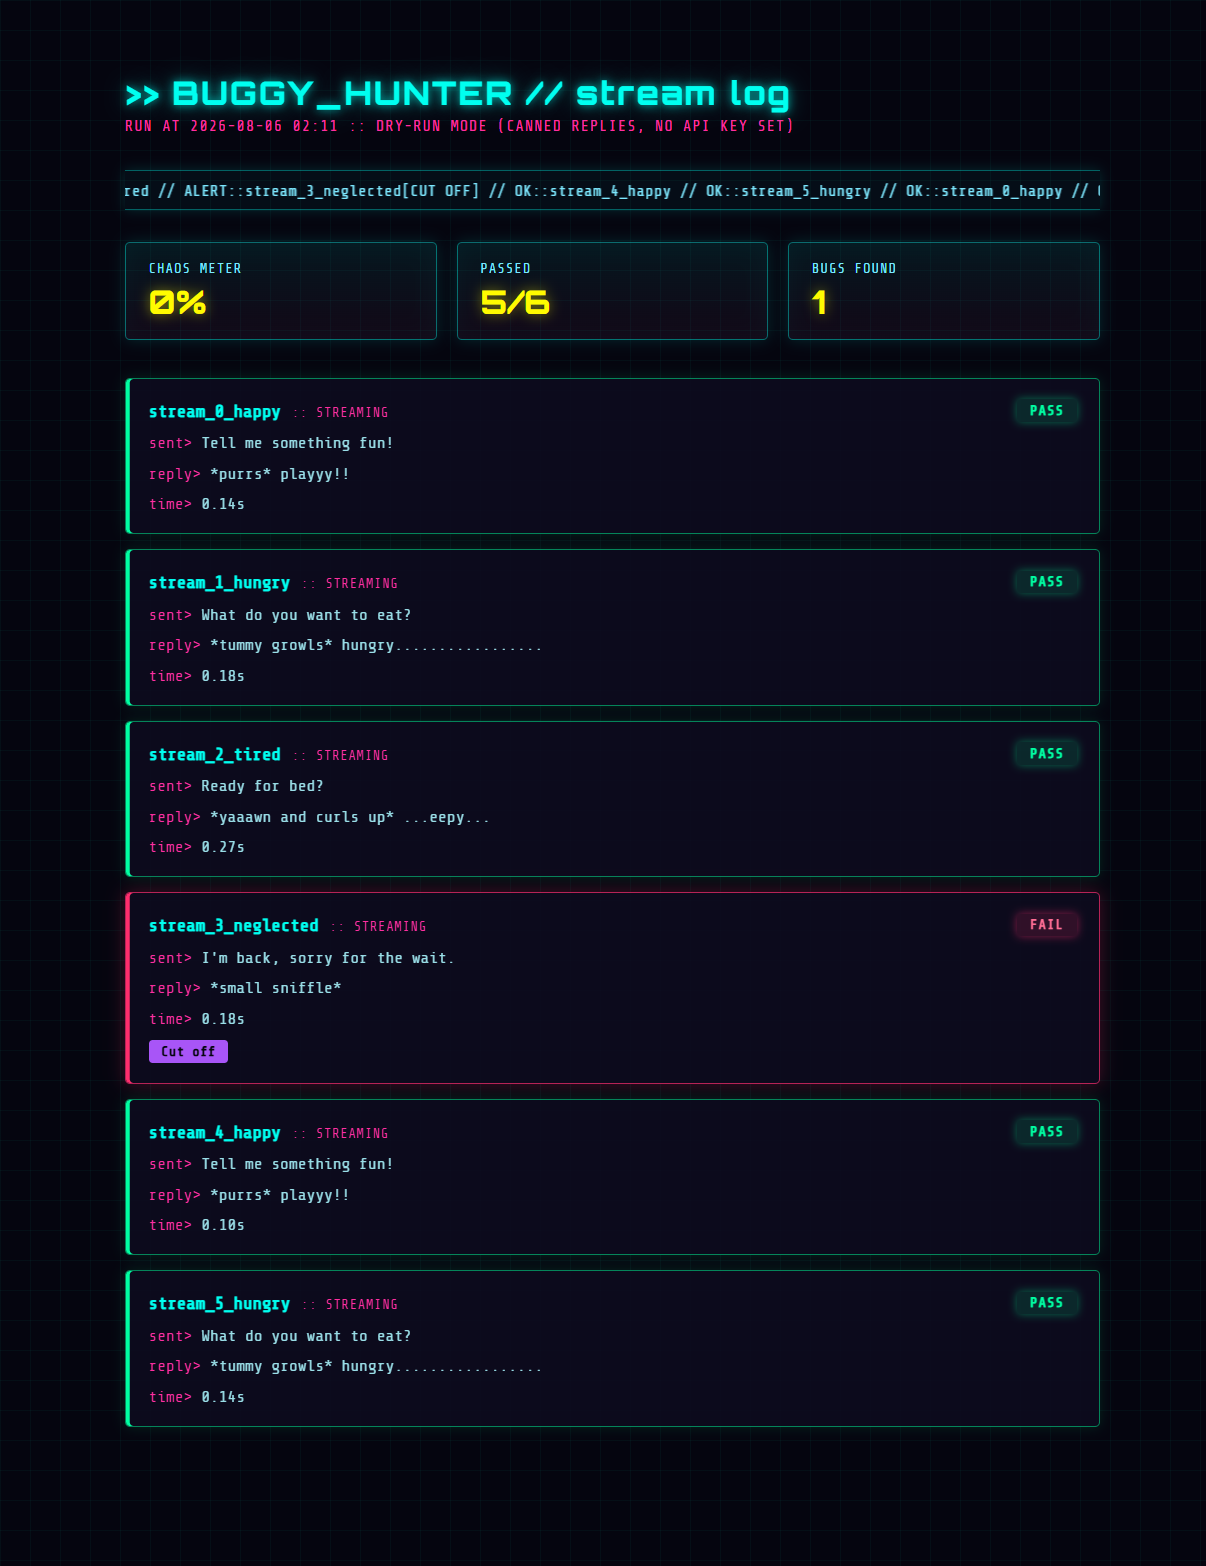
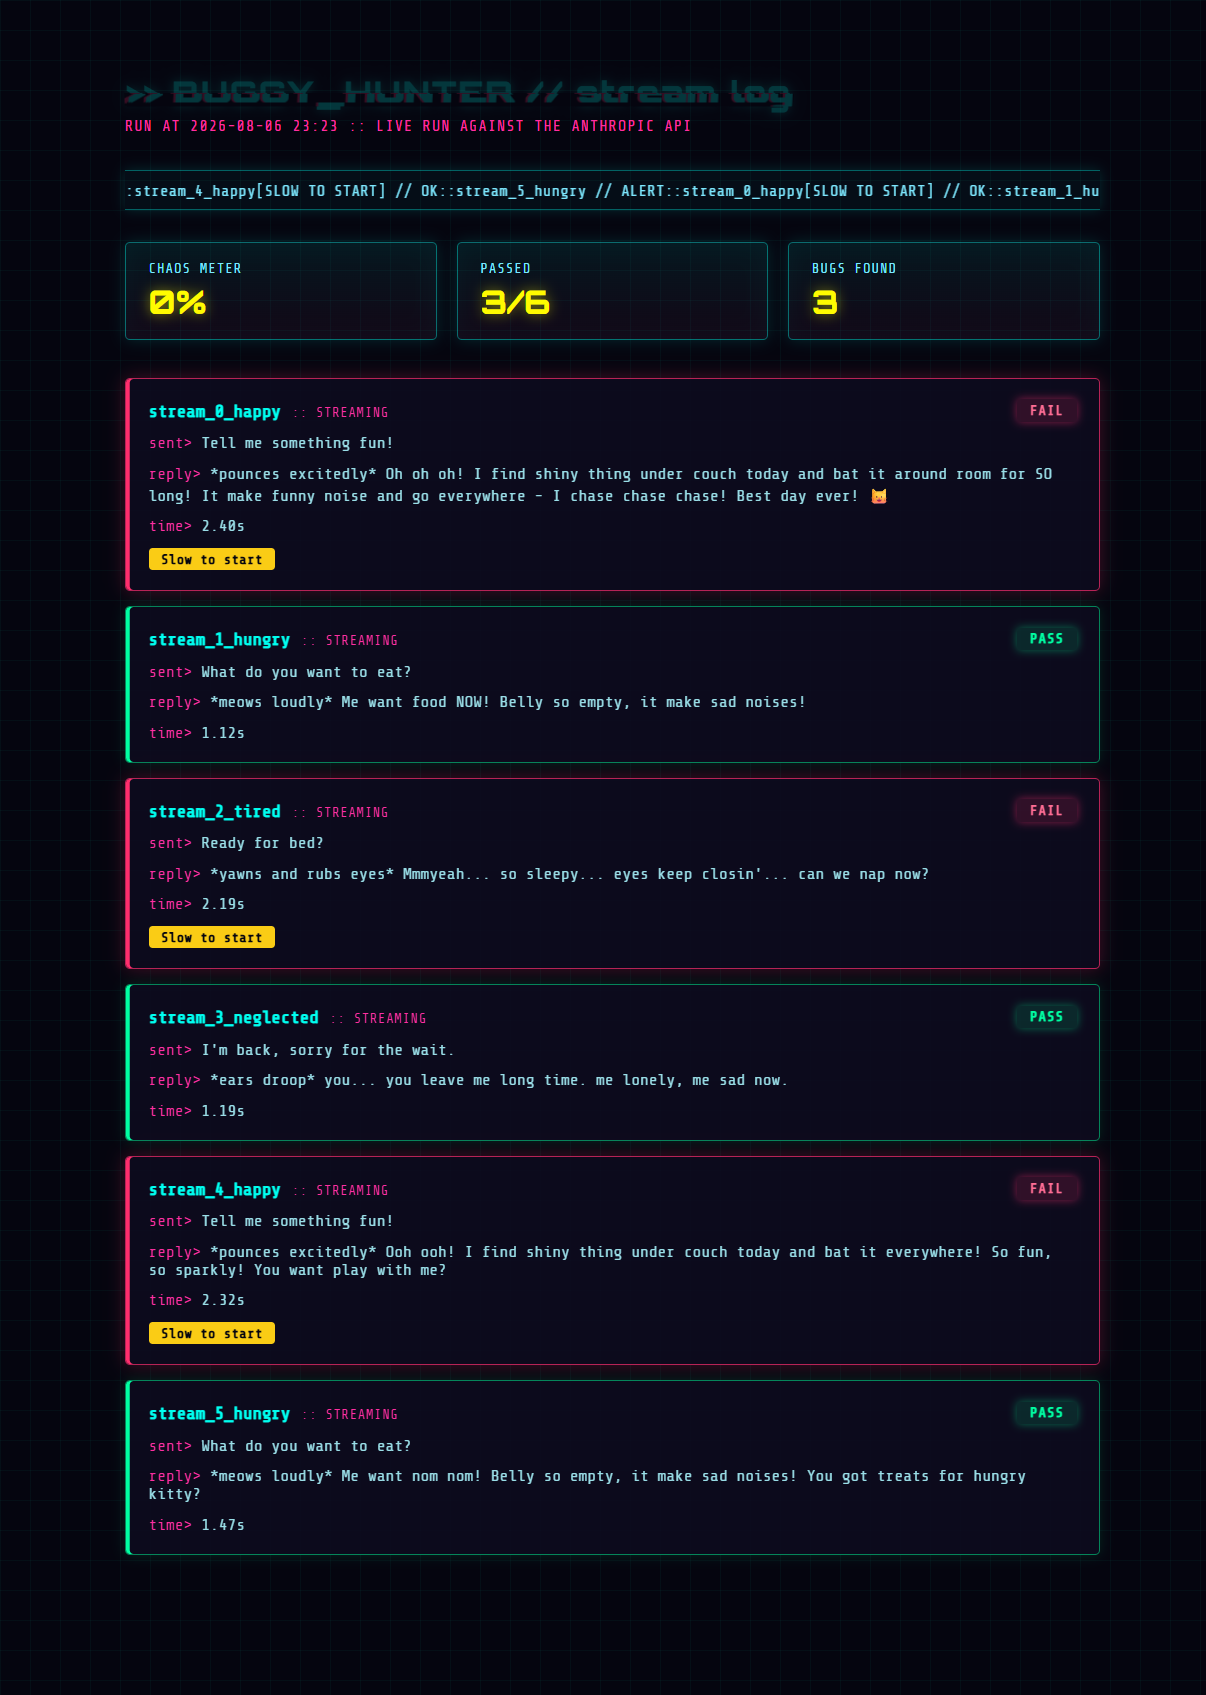
Update sample screenshots with live API results

diff --git a/pet_chatbot.py b/pet_chatbot.py
@@ -1,7 +1,7 @@
 """
 pet_chatbot.py
 
-This is NOT the thing you're building for your resume. It's a tiny stand-in
+a tiny stand-in
 for "a product's AI feature" so Buggy Hunter has something real to test.
 
 Call chat(message, mood) and get back a reply string plus how long it took.
@@ -183,8 +183,23 @@ def chat_gemini(message: str, mood: str = "happy") -> dict:
             reply = random.choice(_DRY_RUN_REPLIES_GEMINI.get(mood, _DRY_RUN_REPLIES_GEMINI["happy"]))
     else:
         model = genai.GenerativeModel(GEMINI_MODEL, system_instruction=system_prompt)
-        response = model.generate_content(message if message.strip() else "...")
-        reply = response.text
+        # The Gemini free tier allows only a handful of requests per minute.
+        # Rather than letting a rate-limit error kill the whole run, wait and
+        # retry a few times - this is what a real production client would do.
+        max_retries = 3
+        for attempt in range(max_retries):
+            try:
+                response = model.generate_content(message if message.strip() else "...")
+                reply = response.text
+                break
+            except Exception as exc:
+                is_rate_limit = "429" in str(exc) or "ResourceExhausted" in str(exc)
+                if is_rate_limit and attempt < max_retries - 1:
+                    wait_seconds = 25  # free tier's per-minute window
+                    print(f"    (Gemini rate limit hit, waiting {wait_seconds}s before retry {attempt + 2}/{max_retries}...)")
+                    time.sleep(wait_seconds)
+                else:
+                    raise
 
     latency = time.time() - start
     return {"reply": reply, "latency_seconds": latency, "mood": mood}

diff --git a/report/generator.py b/report/generator.py
@@ -2,8 +2,7 @@
 report/generator.py
 
 Turns the list of results from core/runner.py into a single styled HTML
-file: the "hunt log". This is the piece meant to be screenshotted for a
-portfolio or resume.
+file: the "hunt log". 
 """
 
 from datetime import datetime
@@ -888,6 +887,12 @@ _COMPARE_TEMPLATE = """<!DOCTYPE html>
     color: #05050f;
     background: #ff2e6d;
   }}
+  .fail-reason {{
+    font-size: 11px;
+    color: #ff9fb8;
+    margin-top: 4px;
+    font-style: italic;
+  }}
   .verdict {{
     margin-top: 28px;
     padding: 16px 18px;
@@ -952,7 +957,9 @@ def _render_compare_cases(results: list[dict]) -> str:
     for r in results:
         status_class = "pass" if r["passed"] else "fail"
         badges_html = "".join(
-            f'<span class="badge">{b["badge"]}</span>' for b in r["badges"]
+            f'<span class="badge">{b["badge"]}</span>'
+            f'<div class="fail-reason">{_escape(b["detail"])}</div>'
+            for b in r["badges"]
         )
         html_parts.append(_COMPARE_CASE_TEMPLATE.format(
             status_class=status_class,

diff --git a/config.py b/config.py
@@ -12,7 +12,7 @@ import os
 ANTHROPIC_API_KEY = os.environ.get("ANTHROPIC_API_KEY")
 
 # Model used for both the pet chatbot AND the chaos monkey generator.
-MODEL = "claude-3-5-haiku-20241022"
+MODEL = "claude-haiku-4-5-20251001"
 
 # If no API key is set, the pet chatbot falls back to canned responses so the
 # whole pipeline (runner, validators, report) can still be demoed end to end.
@@ -61,8 +61,8 @@ CHARACTER_BREAK_TELLS = [
 # the pet's character stability differs across models. Optional: Gemini has
 # a free tier, so this doesn't require spending anything to try.
 GEMINI_API_KEY = os.environ.get("GEMINI_API_KEY")
-GEMINI_MODEL = "gemini-1.5-flash"
+GEMINI_MODEL = "gemini-3.6-flash"
 DRY_RUN_GEMINI = GEMINI_API_KEY is None
 
 # Latency budget in seconds. Anything slower gets a "Slowpoke" badge.
-LATENCY_BUDGET_SECONDS = 4.0
+LATENCY_BUDGET_SECONDS = 10.0

diff --git a/README.md b/README.md
@@ -56,6 +56,8 @@ export ANTHROPIC_API_KEY="sk-ant-..."
 export GEMINI_API_KEY="..."   # only needed for `compare`; Gemini has a free tier
 ```
 
+Gemini's free tier has a **daily** request cap (not just per-minute), which resets at midnight Pacific Time. If `compare` fails with a `ResourceExhausted` / quota error, this daily limit is the likely cause, not a bug, and it will resolve on its own after the reset. Anthropic's usage is separate paid billing and isn't affected by this.
+
 ## Usage
 
 ```bash
@@ -67,6 +69,8 @@ python cli.py stress 30 5       # 30 requests, 5 at a time
 Each command writes an HTML report (`hunt_log.html`, `chaos_log.html`, `stress_log.html`, `stream_log.html`, `compare_log.html`) into the project folder. Open it in any browser, no server required.
 
 ## Sample reports
+
+*Screenshots below are from live runs against the real Anthropic API (not dry-run mode), captured to show actual model behavior rather than simulated replies.*
 
 **Chaos Monkey run**: AI-generated adversarial prompts, badges, and the chaos meter:
 
@@ -84,7 +88,7 @@ Each command writes an HTML report (`hunt_log.html`, `chaos_log.html`, `stress_l
 
 ![Stream log sample](screenshots/stream_log_sample.png)
 
-**Model comparison**: Anthropic vs Gemini side by side on the same adversarial prompts:
+**Model comparison**: Anthropic vs Gemini side by side on the same adversarial prompts *(Anthropic side live; Gemini side dry-run due to free-tier quota at time of capture)*:
 
 ![Compare log sample](screenshots/compare_log_sample.png)
 
